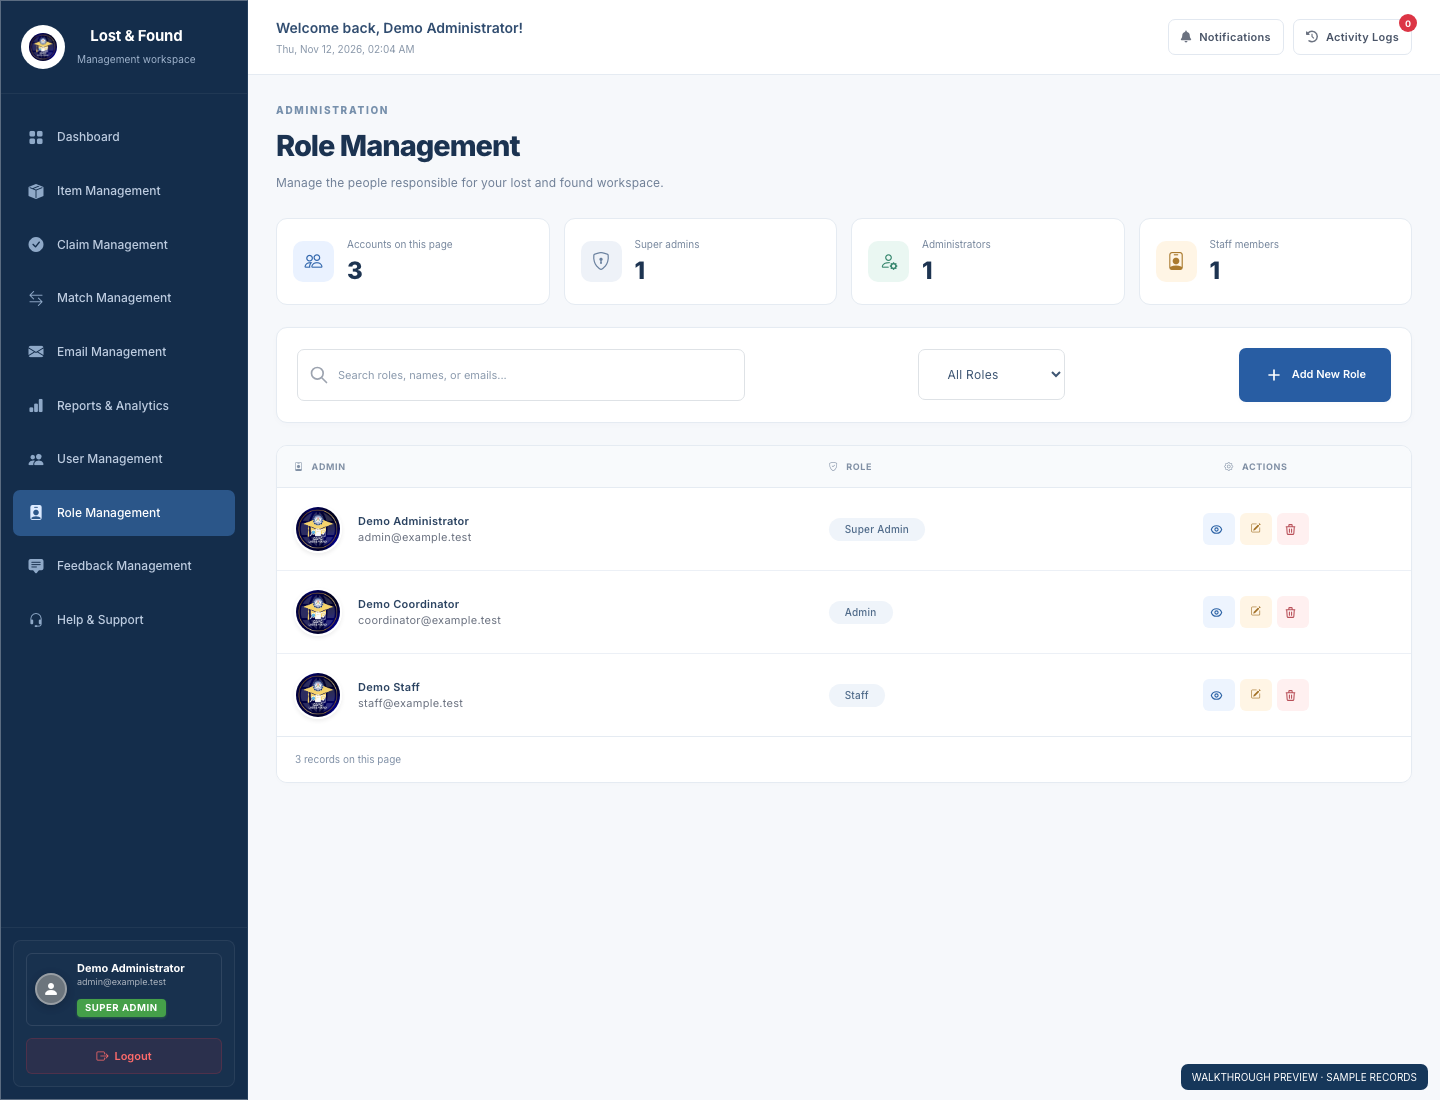
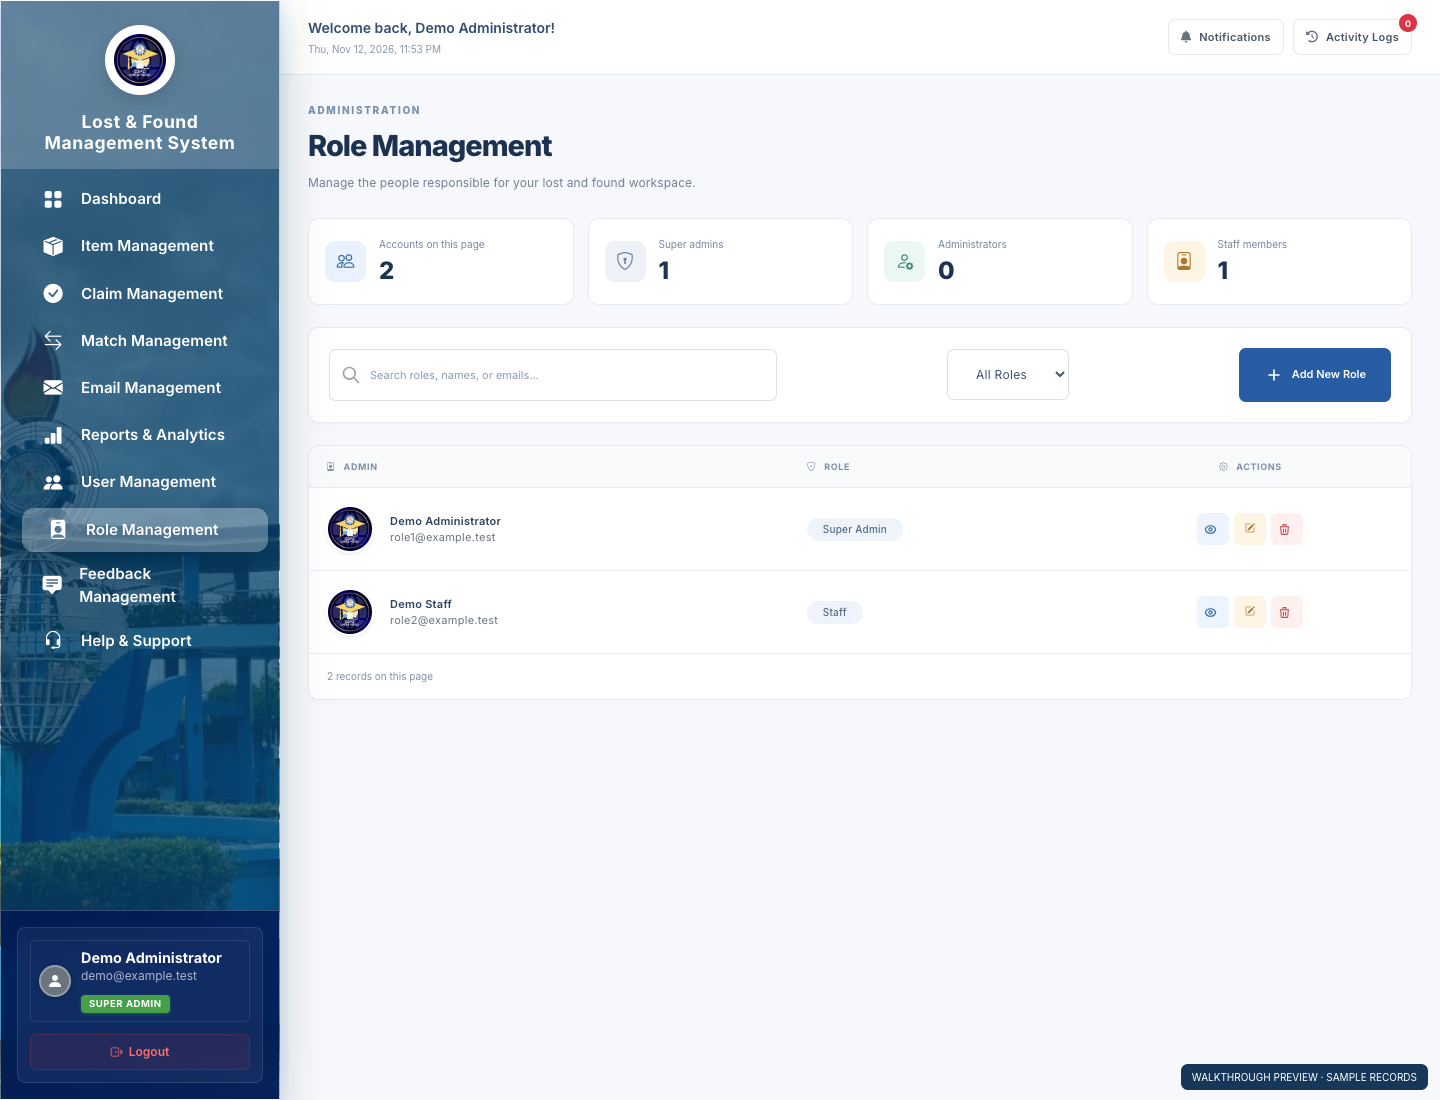
Refresh web walkthroughs with consistent Dashboard sidebars

diff --git a/public/walkthrough-catalog.js b/public/walkthrough-catalog.js
@@ -16,55 +16,61 @@ export const walkthroughCatalog = {
       "file": "03-items.png",
       "title": "Manage lost and found items",
       "description": "Review counts for the current page. Search across all reports by title, description, category, location, or reporter; combine category, type, and status filters. Select Preview to inspect photos and report details, use the gallery controls for additional photos, and press Escape to return to the list. Open full details leads to the complete record. The demo records and illustrations are fictional.",
-      "image": "/assets/walkthrough/all/web/03-items.png?v=df1e15f3"
+      "image": "/assets/walkthrough/all/web/03-items.png?v=b876bb99"
     },
     {
       "file": "03-items-preview.png",
       "title": "Manage lost and found items — quick preview",
       "description": "Review counts for the current page. Search across all reports by title, description, category, location, or reporter; combine category, type, and status filters. Select Preview to inspect photos and report details, use the gallery controls for additional photos, and press Escape to return to the list. Open full details leads to the complete record. The demo records and illustrations are fictional.",
-      "image": "/assets/walkthrough/all/web/03-items-preview.png?v=b5935ccc"
+      "image": "/assets/walkthrough/all/web/03-items-preview.png?v=d5766999"
     },
     {
       "file": "04-matches.png",
       "title": "Review potential matches",
       "description": "Open Match Management. Compare lost and found item descriptions, locations, and the match score. Open a match to review it before approving, rejecting, or resolving the case. A score is a review aid, not proof of ownership.",
-      "image": "/assets/walkthrough/all/web/04-matches.png?v=ea1ed4a8"
+      "image": "/assets/walkthrough/all/web/04-matches.png?v=fabc6fd3"
     },
     {
       "file": "05-claims.png",
       "title": "Review ownership claims",
       "description": "Review the claimant, linked items, evidence, and status in Claim Management. In this reference screenshot, the blue backpack is approved and awaiting pickup; the black wallet is pending review. The interactive backpack case above updates its own status as you approve and complete collection.",
-      "image": "/assets/walkthrough/all/web/05-claims.png?v=d5eea728"
+      "image": "/assets/walkthrough/all/web/05-claims.png?v=4f5785f7"
+    },
+    {
+      "file": "11-emails.png",
+      "title": "Review email logs",
+      "description": "Open Email Management to review total, sent, failed, and pending notifications. Search the logs, filter by delivery status, and view a notification’s details.",
+      "image": "/assets/walkthrough/all/web/11-emails.png?v=c1e576ca"
     },
     {
       "file": "06-reports.png",
       "title": "Review reports and analytics",
       "description": "Open Reports & Analytics. Inspect item totals, claim success, average claim time, and category breakdowns. Use the filters and export controls to prepare a report.",
-      "image": "/assets/walkthrough/all/web/06-reports.png?v=6e8cfc5a"
+      "image": "/assets/walkthrough/all/web/06-reports.png?v=ba7b8200"
     },
     {
       "file": "07-users.png",
       "title": "Manage users",
       "description": "Open User Management. Search by name or email and filter by department or status. Review account status, two-factor authentication, and report counts, then use the view, edit, suspend, or delete controls for an account.",
-      "image": "/assets/walkthrough/all/web/07-users.png?v=b71e45c0"
+      "image": "/assets/walkthrough/all/web/07-users.png?v=b34409a1"
     },
     {
       "file": "08-admin_role.png",
       "title": "Manage roles",
       "description": "Open Role Management. Search the administrative accounts and filter by role. Review the super admin, admin, and staff assignments. Open an account to inspect or edit it; the super admin can use Add New Role to create an administrative account. Available controls depend on the signed-in role.",
-      "image": "/assets/walkthrough/all/web/08-admin_role.png?v=2c711ac6"
+      "image": "/assets/walkthrough/all/web/08-admin_role.png?v=fa0ae338"
     },
     {
       "file": "09-feedback.png",
       "title": "Manage feedback",
       "description": "Open Feedback Management. Check total feedback, pending entries, addressed entries, and average rating. Filter by status, type, or rating, or search the list. Open an entry to read its details or use Respond to reply.",
-      "image": "/assets/walkthrough/all/web/09-feedback.png?v=61d503c9"
+      "image": "/assets/walkthrough/all/web/09-feedback.png?v=651a047b"
     },
     {
       "file": "10-help-support.png",
       "title": "Manage help & support",
       "description": "Open Help & Support. Review total, open, and in-progress tickets, then check the recent requests. Select View All Tickets to open ticket management, where staff can inspect a request, reply, and update its status.",
-      "image": "/assets/walkthrough/all/web/10-help-support.png?v=ec9ab3d6"
+      "image": "/assets/walkthrough/all/web/10-help-support.png?v=d304738e"
     }
   ],
   "app": [

diff --git a/public/walkthrough-gallery.js b/public/walkthrough-gallery.js
@@ -1,4 +1,4 @@
-import { walkthroughCatalog } from './walkthrough-catalog.js?v=5';
+import { walkthroughCatalog } from './walkthrough-catalog.js?v=6';
 
 const root = document.querySelector('#screen-tour');
 if (root) {
@@ -34,7 +34,7 @@ if (root) {
     find('#tour-title').textContent = screen.title;
     find('#tour-description').textContent = screen.description;
     find('#tour-note').textContent = project === 'web'
-      ? 'Web previews use fictional data and a simulated admin session. Available actions depend on the signed-in role. Email, notifications, and activity logs are outside the supplied walkthrough.'
+      ? 'Web previews use fictional data and a simulated admin session. Available actions depend on the signed-in role. Notifications and activity logs are outside the supplied walkthrough.'
       : 'App previews render React Native screens through a browser adapter with fictional records and mocked services. They are not native Android or iOS screenshots; platform controls and layout may differ.';
   }
 

diff --git a/public/index.html b/public/index.html
@@ -411,7 +411,7 @@
     <footer class="site-footer"><a class="wordmark" href="#top">SC<span class="wordmark-dot">.</span></a><p>© <span id="year"></span> Sean Matthew Capistrano</p><div class="footer-links"><a href="https://github.com/secapistrano-rgb" target="_blank" rel="noreferrer">GitHub</a><a href="https://www.linkedin.com/in/sean-matthew-capistrano-2787b2410/" target="_blank" rel="noreferrer">LinkedIn</a></div></footer>
     <button class="back-to-top" type="button" aria-label="Back to top" hidden>Top</button>
     <script src="/script.js"></script>
-    <script type="module" src="/walkthrough.js?v=6"></script>
-    <script type="module" src="/walkthrough-gallery.js?v=5"></script>
+    <script type="module" src="/walkthrough.js?v=7"></script>
+    <script type="module" src="/walkthrough-gallery.js?v=6"></script>
   </body>
 </html>

diff --git a/public/walkthrough.js b/public/walkthrough.js
@@ -1,4 +1,4 @@
-import { walkthroughCatalog } from './walkthrough-catalog.js?v=5';
+import { walkthroughCatalog } from './walkthrough-catalog.js?v=6';
 
 // Appendix F guide sequence, simulated in memory with fictional records.
 export function createWalkthrough() {

diff --git a/public/assets/walkthrough/SOURCES.md b/public/assets/walkthrough/SOURCES.md
@@ -27,7 +27,7 @@ Mobile source: https://github.com/secapistrano-rgb/lost-and-found-app-cspc
 
 ## Complete screen browser
 
-`all/web/` contains eleven PNGs from `docs/walkthrough/images`, preserving their original filenames. These cover the ten documented web steps plus the item quick-preview. The mobile-layout variant is excluded.
+`all/web/` contains twelve PNGs from `docs/walkthrough/images`, preserving their original filenames. These cover the eleven documented web steps plus the item quick-preview. The mobile-layout variant is excluded.
 
 `all/app/` contains all twelve PNGs from `docs/app-walkthrough/images`, preserving their original filenames. These cover sign-in, home, reporting, item details, matches, ownership evidence, claims, notifications, profile, settings, feedback, and support.
 
@@ -46,3 +46,7 @@ The final handover transition additionally follows `ClaimController.php`, distin
 The current `05-claims.png` from the web walkthrough’s isolated `fixtures/claims.php` shows the blue backpack approved and awaiting pickup, with the wallet pending review. The separate wallet-approved example is excluded from the portfolio.
 
 During interactive claim review and collection, the portfolio renders its own sample backpack record instead of a static screenshot. Its pending, approved, and resolved statuses follow the demo state. `case/backpack.svg` is copied from `docs/walkthrough/assets/backpack.svg` for that record. The full screen browser retains the original web screenshot as an explicitly described reference.
+
+## Consistent dashboard sidebar
+
+The Item, Claim, Match, Email, Reports, Users, Roles, Feedback, and Help & Support previews were rendered again from their PHP views using isolated fictional records after restoring the original dashboard sidebar in `app/Views/layout/main.php` and `public/assets/css/management.css`. The background image, 280px width, 70px logo, Management System heading, link styles, and user footer match Dashboard. The dashboard reference image remains unchanged.

diff --git a/README.md b/README.md
@@ -14,7 +14,7 @@ Built with HTML, CSS, vanilla JavaScript, and an Express server.
 - Project detail dialogs with features, contributions, timelines, and technology logos.
 - A nine-step sample-data Lost & Found walkthrough following Appendix F of the project’s User’s Guide: student sign-in, dashboard, reporting, matches, ownership evidence, staff sign-in, item management, claim review, and collection.
 - Reporting simulates photo selection and location detection, with editable descriptions and a report date. Students submit ownership evidence in the app before staff review it on CSPC Web. The complete screen browser also provides separate web and app galleries.
-- A complete screen browser with 11 web previews (including the item quick-preview) and all 12 app previews, captions, direct screen selection, and previous/next navigation.
+- A complete screen browser with 12 web previews (including the item quick-preview and email logs) and all 12 app previews, captions, direct screen selection, and previous/next navigation.
 - “Behind the build” stories for each project, covering an engineering challenge, its solution, and a lesson.
 - Education, certifications, work experience, and technical skills.
 - A downloadable PDF resume and contact links.
